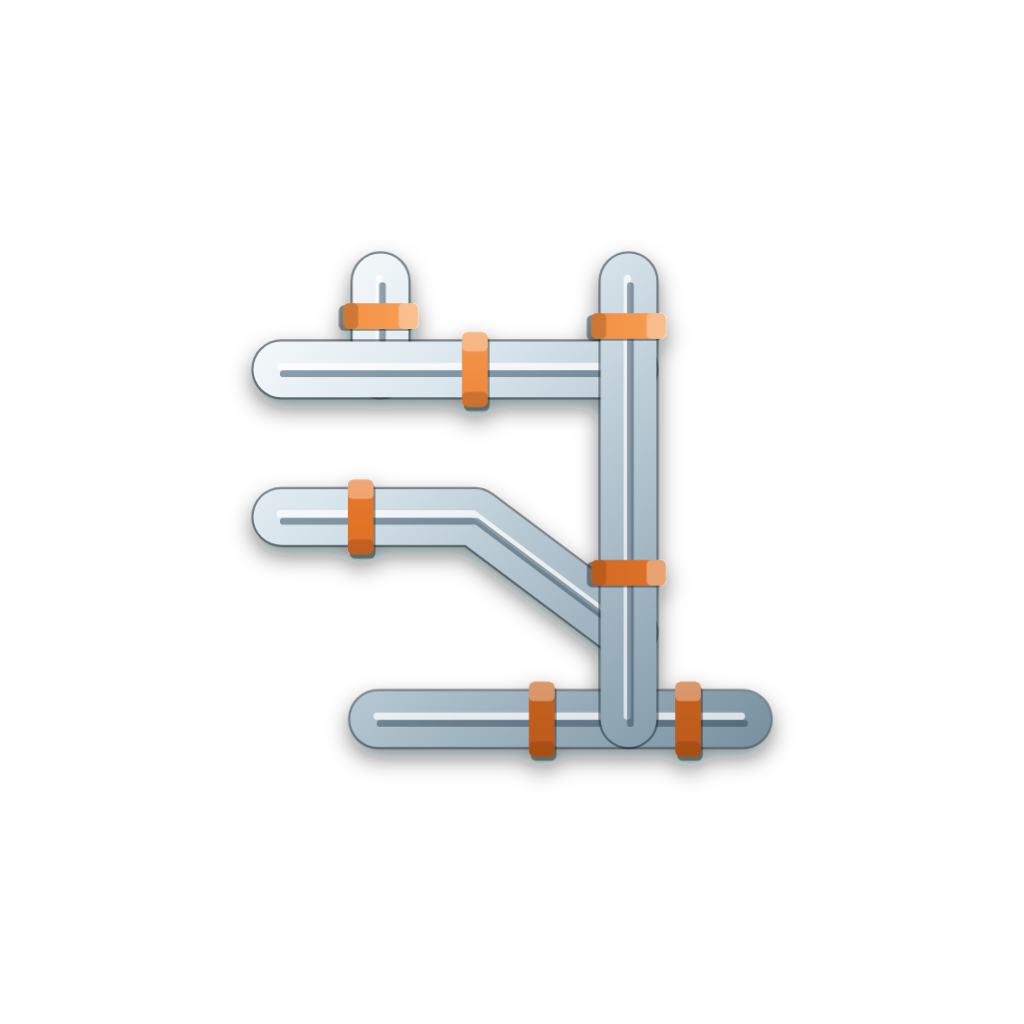
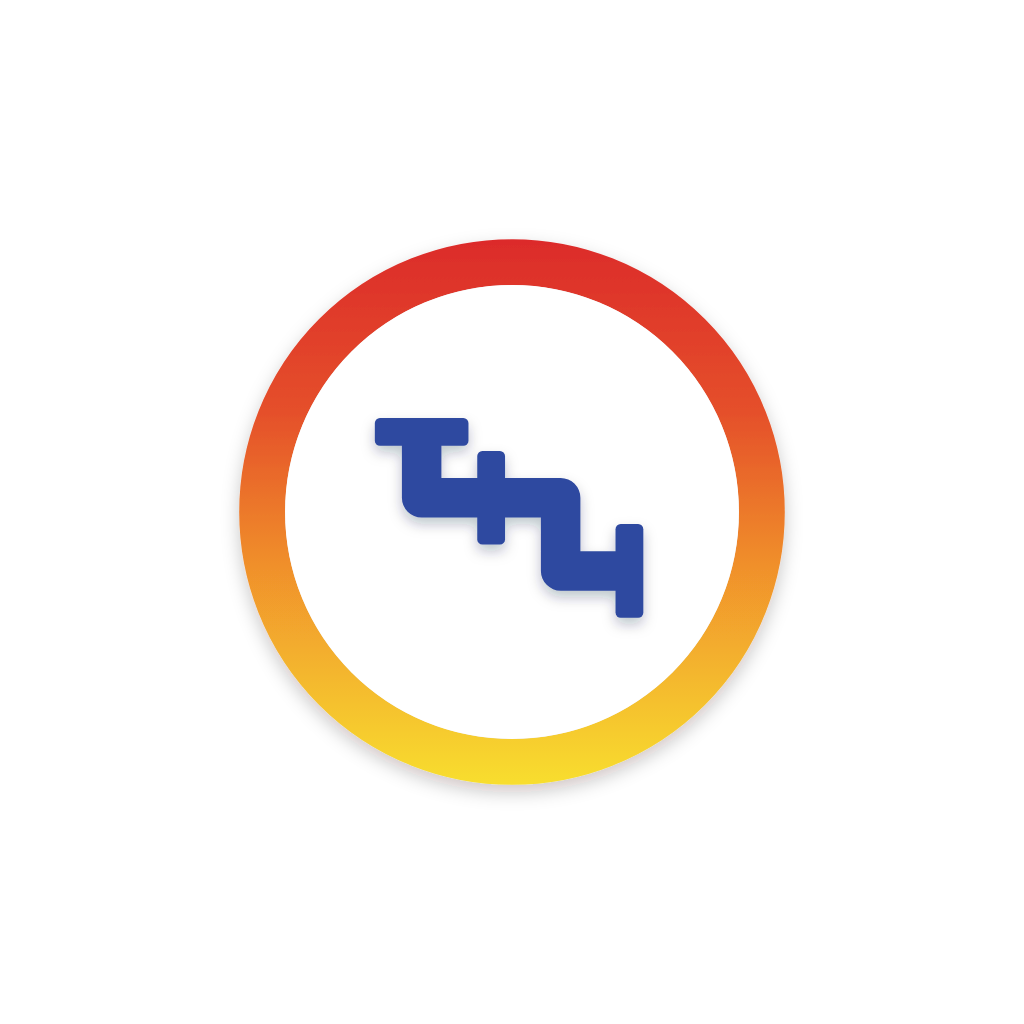
Replace app mark with gradient-ring pipe badge
Redraw the launcher mark: a warm red-to-yellow gradient ring around a
white disc carrying a stepped pipe run with flange caps at both ends
and the mid-run joint.

- soft blurred drop shadows on both the badge and the glyph rather than
  a hard offset copy, which read as misregistration at launcher size
- butt line caps so the stroke stops at the flange faces instead of
  bulging past them
- adaptive foreground rendered at 0.62 scale so nothing crosses Android's
  66% mask safe zone, verified under circle and squircle masks
- adaptive background moved from the old slate to white so Android
  matches iOS and web

Claude-Session: https://claude.ai/code/session_01Vw5LbumMFGBTdmd1EaPH5V

Changed region(s): [[0.2188, 0.2188, 0.7812, 0.7812]]

diff --git a/tools/mark.js b/tools/mark.js
@@ -1,61 +1,49 @@
-const W = 90;
+const RING_OUT = 440;
+const RING_IN = 366;
+const BLUE = '#2F49A0';
+const SW = 54;
+const CAP_L = 128;
+const CAP_T = 38;
 
-const pipe = (d) => `
-  <path d="${d}" fill="none" stroke="#16262F" stroke-width="${W + 7}" stroke-linecap="round" stroke-linejoin="round" opacity="0.5"/>
-  <path d="${d}" fill="none" stroke="url(#body)" stroke-width="${W}" stroke-linecap="round" stroke-linejoin="round"/>
-  <g transform="translate(-2,-5)"><path d="${d}" fill="none" stroke="#FFFFFF" stroke-width="${W * 0.13}" stroke-linecap="round" stroke-linejoin="round" opacity="0.72"/></g>
-  <g transform="translate(3,7)"><path d="${d}" fill="none" stroke="#2B4657" stroke-width="${W * 0.12}" stroke-linecap="round" stroke-linejoin="round" opacity="0.5"/></g>`;
+const RUN = 'M0,0 L0,90 L190,90 L190,190 L284,190';
 
-const collar = (x, y, axis) => {
-  const rot = axis === 'v' ? 90 : 0;
-  const bw = W * 0.46;
-  const bh = W * 1.34;
-  return `
-  <g transform="rotate(${rot} ${x} ${y})">
-    <rect x="${x - bw / 2 + 3}" y="${y - bh / 2 + 7}" width="${bw}" height="${bh}" rx="9" fill="#0E1A22" opacity="0.45"/>
-    <rect x="${x - bw / 2}" y="${y - bh / 2}" width="${bw}" height="${bh}" rx="9" fill="url(#collar)"/>
-    <rect x="${x - bw / 2}" y="${y - bh / 2}" width="${bw}" height="${bh * 0.26}" rx="8" fill="#FFFFFF" opacity="0.34"/>
-    <rect x="${x - bw / 2}" y="${y + bh * 0.30}" width="${bw}" height="${bh * 0.2}" rx="8" fill="#7E3B0F" opacity="0.3"/>
+const capH = (x, y) => `<rect x="${x - CAP_L / 2}" y="${y - CAP_T / 2}" width="${CAP_L}" height="${CAP_T}" rx="7"/>`;
+const capV = (x, y) => `<rect x="${x - CAP_T / 2}" y="${y - CAP_L / 2}" width="${CAP_T}" height="${CAP_L}" rx="7"/>`;
+
+const glyphBody = (fill) => `
+  <g fill="${fill}">
+    <path d="${RUN}" fill="none" stroke="${fill}" stroke-width="${SW}" stroke-linejoin="round" stroke-linecap="butt"/>
+    ${capH(0, 0)}${capV(95, 90)}${capV(284, 190)}
   </g>`;
-};
+
+const CX = 123.5;
+const CY = 109.5;
+const GLYPH_SCALE = 1.18;
 
 const ART = `
-  <g filter="url(#soft)">
-    ${pipe('M300,140 L300,282')}
-    ${pipe('M140,282 L700,282')}
-    ${pipe('M140,520 L452,520 L700,706')}
-    ${pipe('M296,846 L884,846')}
-    ${pipe('M700,140 L700,846')}
-    ${collar(300, 196, 'v')}
-    ${collar(452, 282, 'h')}
-    ${collar(268, 520, 'h')}
-    ${collar(560, 846, 'h')}
-    ${collar(796, 846, 'h')}
-    ${collar(700, 212, 'v')}
-    ${collar(700, 610, 'v')}
+  <g filter="url(#lift)">
+    <circle cx="512" cy="512" r="${(RING_OUT + RING_IN) / 2}" fill="none"
+            stroke="url(#ring)" stroke-width="${RING_OUT - RING_IN}"/>
+    <circle cx="512" cy="512" r="${RING_IN}" fill="#FFFFFF"/>
+  </g>
+  <g transform="translate(512,512) scale(${GLYPH_SCALE}) translate(${-CX},${-CY})" filter="url(#drop)">
+    ${glyphBody(BLUE)}
   </g>`;
 
 export const MARK = (bg, artScale = 1) => `
 <svg xmlns="http://www.w3.org/2000/svg" width="1024" height="1024" viewBox="0 0 1024 1024">
   <defs>
-    <radialGradient id="ground" cx="0.28" cy="0.18" r="1.05">
-      <stop offset="0" stop-color="#41697F"/>
-      <stop offset="0.5" stop-color="#26424F"/>
-      <stop offset="1" stop-color="#0F1C23"/>
-    </radialGradient>
-    <linearGradient id="body" gradientUnits="userSpaceOnUse" x1="140" y1="100" x2="900" y2="920">
-      <stop offset="0" stop-color="#FBFDFE"/>
-      <stop offset="0.3" stop-color="#DAE6ED"/>
-      <stop offset="0.62" stop-color="#AABDC9"/>
-      <stop offset="1" stop-color="#78909F"/>
+    <linearGradient id="ring" gradientUnits="userSpaceOnUse" x1="512" y1="72" x2="512" y2="952">
+      <stop offset="0" stop-color="#DC2B2B"/>
+      <stop offset="0.32" stop-color="#E5502A"/>
+      <stop offset="0.60" stop-color="#F0902C"/>
+      <stop offset="1" stop-color="#F8DE2F"/>
     </linearGradient>
-    <linearGradient id="collar" gradientUnits="userSpaceOnUse" x1="0" y1="0" x2="0" y2="1024">
-      <stop offset="0" stop-color="#FFB067"/>
-      <stop offset="0.45" stop-color="#E8792B"/>
-      <stop offset="1" stop-color="#AF5118"/>
-    </linearGradient>
-    <filter id="soft" x="-20%" y="-20%" width="140%" height="140%">
-      <feDropShadow dx="0" dy="16" stdDeviation="18" flood-color="#040B10" flood-opacity="0.5"/>
+    <filter id="lift" x="-20%" y="-20%" width="140%" height="140%">
+      <feDropShadow dx="0" dy="12" stdDeviation="15" flood-color="#2A1608" flood-opacity="0.22"/>
+    </filter>
+    <filter id="drop" x="-25%" y="-25%" width="150%" height="150%">
+      <feDropShadow dx="0" dy="9" stdDeviation="9" flood-color="#101A3C" flood-opacity="0.26"/>
     </filter>
   </defs>
   ${bg}
